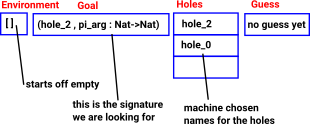
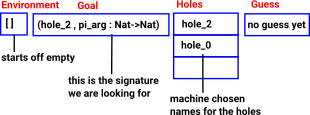
update some diagrams for example

diff --git a/docs/proofs/example1.rst b/docs/proofs/example1.rst
@@ -14,10 +14,11 @@ Elaborator Reflection - Identity Example
                               solve)
 
 .. list-table::
+   :widths: 200 100
 
    * - At the beginning of executing the elaboration script, the initial state consists of a single hole of type Nat -> Nat.
 
-       Fill that with 'intro' which creates a lambda term with a hole for the  expression.
+       As a first approximation, the state consists of a term with holes in it, an indicator of which hole is focused, a queue of the next holes to focus on, and miscellaneous information like a source of fresh names. The intro tactic modifies this state, replacing the focused hole with a lambda and focusing on the lambda's body.
      - .. image:: ../image/tree.png
           :width: 133px
           :height: 106px
@@ -34,10 +35,10 @@ The following is a walkthough looking at the state after each tactic:
          idNat : Nat -> Nat
          idNat = %runElab (do
 
-   * - In order to investigate how the program works this table shows the proofState at each stage as the tactics are applied. So here is the proofState at the start:
+   * - In order to investigate how the program works this table shows the proof state at each stage as the tactics are applied. So here is the proof state at the start:
      - .. image:: ../image/elabProofStateEx1_1.png
           :width: 310px
-          :height: 124px
+          :height: 115px
 
    * - This table also shows the logic at each stage:
      - .. image:: ../image/elabLogicEx1_1.png
@@ -87,7 +88,7 @@ The following is a walkthough looking at the state after each tactic:
 
        .. image:: ../image/elabProofStateEx1_2.png
           :width: 312px
-          :height: 124px
+          :height: 84px
 
    * - logic now looks like this
      - logic
